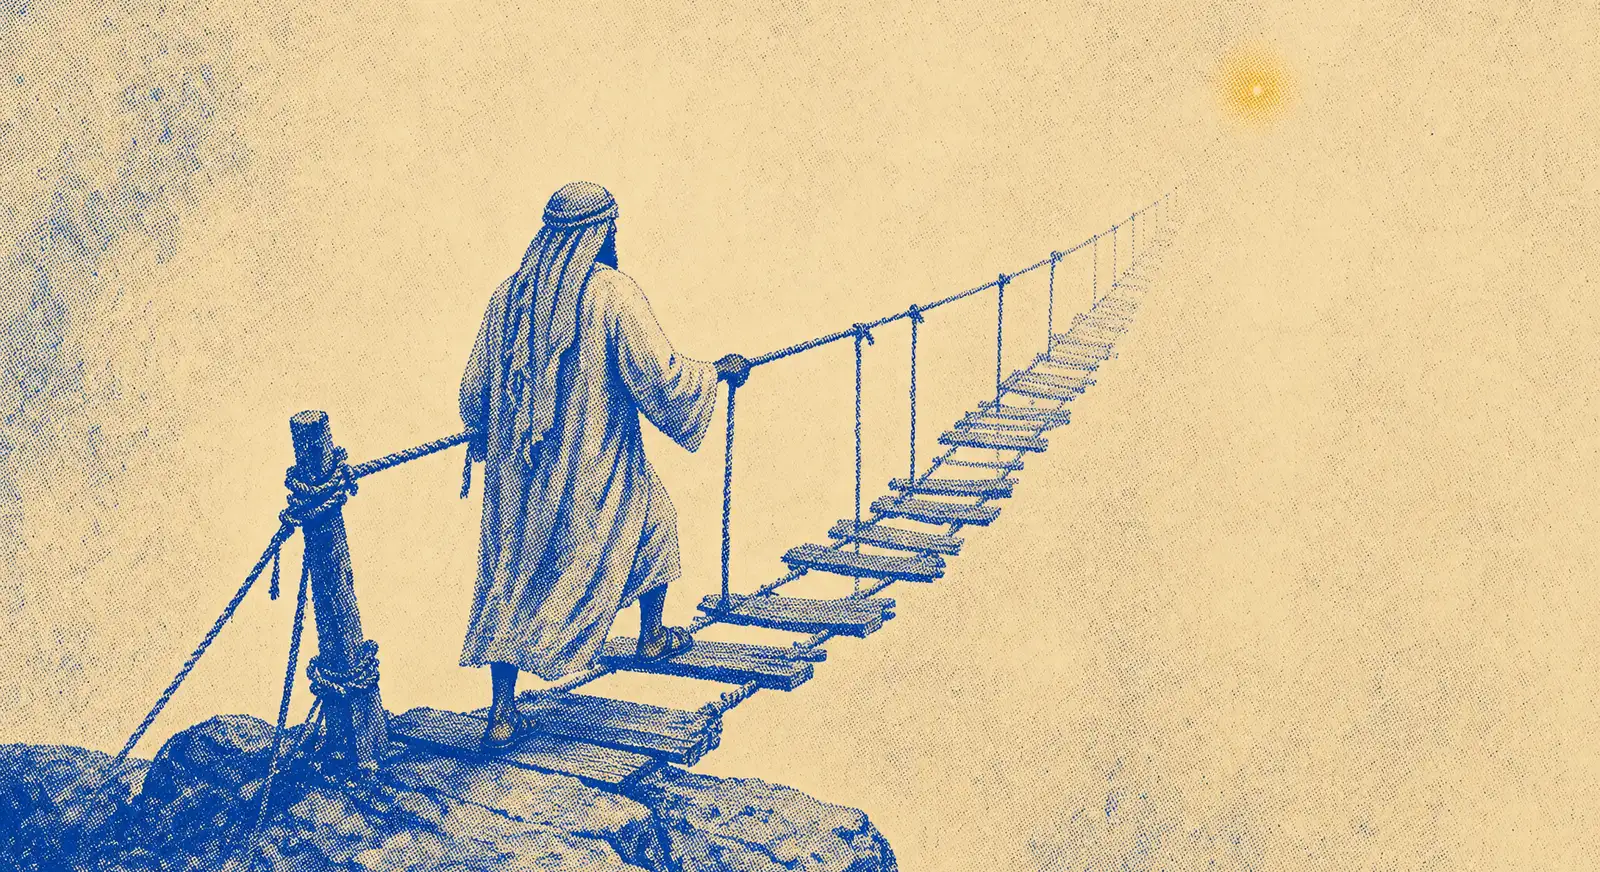
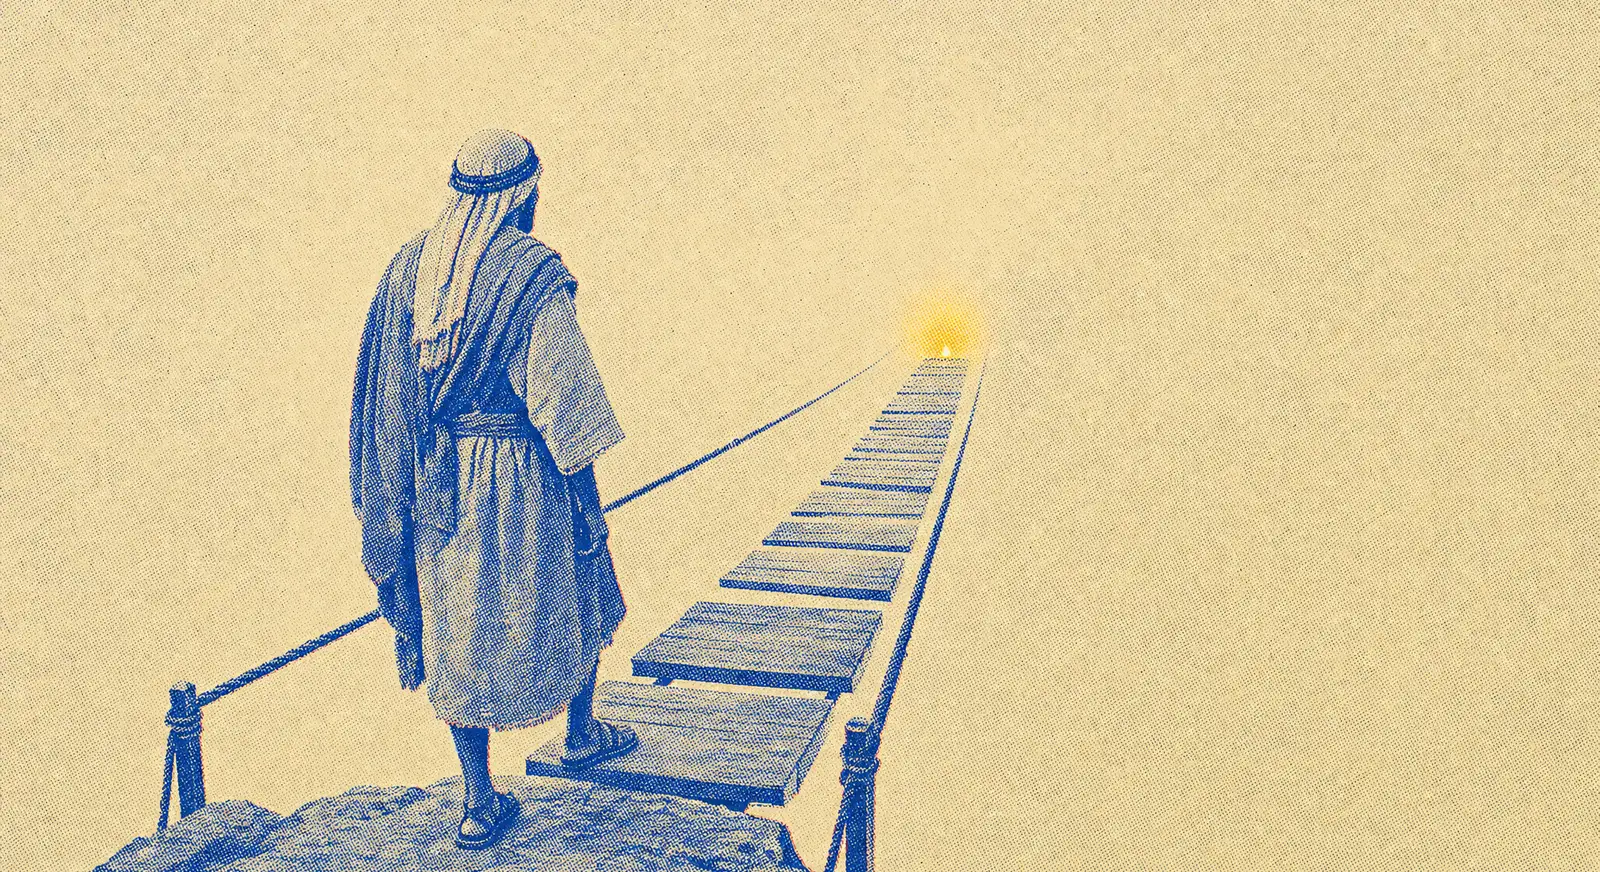
fix(imagery): three plate replacements + skill brought in line — SA-052 (F-096)
Founder approved the style ('almost perfect for now') with three rejections:
a malformed hand, a plate that did not suit its passage, and one that read as an
Escher drawing. All three regenerated with the specific constraint named in the
prompt rather than a general quality plea.

The gate cried wolf twice more: its border check was lightness-based and failed
both airy replacements for pale edges. An edge is now a defect only if pale AND
flat. Verified still-sensitive against a synthetic flat-border plate (BAD 6/6).
33/33 pass.

Every automated check in this pass has failed the same way — treating light as
absent. Anything measuring emptiness must measure texture at native resolution.

Skill rewritten to match what shipped: 3:2 params, two-master architecture with
measured safe zones, nine prompt blocks each annotated with the failure that
produced it, three set-level axes, and a gate covering hands, impossible geometry
and does-it-suit-the-passage.

diff --git a/src/components/ServiceWorkerRegistration.tsx b/src/components/ServiceWorkerRegistration.tsx
@@ -7,7 +7,7 @@ import { useEffect } from 'react'
 // reloading. v50 corresponds to the R37 deploy.
 // R38 (Phase 2.2 + 2.3): v51 — offline reading-route caching + web-push
 // handlers in /sw.js. Must match CACHE_NAME there.
-const SW_VERSION = 'v81'
+const SW_VERSION = 'v82'
 const SW_VERSION_KEY = 'euangelion-sw-version'
 
 export default function ServiceWorkerRegistration() {

diff --git a/public/sw.js b/public/sw.js
@@ -80,7 +80,7 @@
 // mismatched stored version it unregisters + clears caches before
 // re-registering, so users on the old build pick up the new one without a
 // manual hard-refresh.
-const CACHE_NAME = 'euangelion-v81'
+const CACHE_NAME = 'euangelion-v82'
 const OFFLINE_URL = '/offline'
 const STATIC_ASSET_RE = /\.(js|css|woff2?|ttf|otf)$/i
 

diff --git a/.claude/skills/devo-go/references/imagery-and-video.md b/.claude/skills/devo-go/references/imagery-and-video.md
@@ -4,43 +4,76 @@
 
 NO image generation until the founder has read and approved the full text (SA-029 gate). Video IDs are verified during research and shown as cards in the review artifact; imagery briefs are written per day but not executed.
 
-## Generator
+## Generator — as actually shipped 2026-08-16
 
-Higgsfield MCP, model `gpt_image_2` ("GPT Image 2", OpenAI) — the founder-directed generator (SA-029). Params: `resolution: "2k"`, `quality: "high"` (~7 credits/image), **`aspect_ratio: "1:1"` always**. Plan cap: 8 concurrent jobs — fire 8, poll `jobs_wait`, fire the rest as slots free. Download `results.rawUrl` PNGs.
+Higgsfield MCP, model `gpt_image_2`. Params: **`aspect_ratio: "3:2"`**,
+`resolution: "2k"`, `quality: "high"` → **2048×1360**, ~7 credits/image. Plan cap
+8 concurrent — fire 8, poll `jobs_wait`, fire the next as slots free. Download
+`results.rawUrl` PNGs.
 
-## Generate ONE master, derive every ratio (SA-052)
+Founder approved this batch: _"this style is almost perfect for now."_
 
-**Never generate per aspect ratio.** Generate one 2048×2048 master and crop every
-slot from it. A square master is the geometric mean of the extremes we need
-(9:16 → 1.91:1), so it loses the least to any single crop. Credits then scale
-with how many _pictures_ you want, not how many _places_ they appear — a 10-slot
-set costs 7 credits instead of 70.
+## Two masters, NOT one square (SA-052)
 
-| Key             | Slot                          | Pixels    |
-| --------------- | ----------------------------- | --------- |
-| `site-hero`     | Site headline hero            | 1408×768  |
-| `site-card`     | Series card                   | 1024×1024 |
-| `site-inline`   | Inline / day banner           | 1600×900  |
-| `site-portrait` | Portrait card 3:4             | 1050×1400 |
-| `og-card`       | OG / FB / LinkedIn / X link   | 1200×630  |
-| `ig-square`     | Instagram / LinkedIn square   | 1080×1080 |
-| `ig-portrait`   | Instagram portrait 4:5        | 1080×1350 |
-| `story`         | Stories / Reels / TikTok 9:16 | 1080×1920 |
-| `pinterest`     | Pinterest 2:3                 | 1000×1500 |
-| `yt-thumb`      | YouTube thumbnail 16:9        | 1280×720  |
+> **Retired:** the earlier "one 2048² square derives every ratio" rule. It read as
+> economical and was the direct cause of the set the founder rejected. The site
+> consumes eight ratios; their crop-safe intersection from a square is the central
+> **60%×27% — 16% of the frame** — so every composition was forced to the centre
+> with padding around it. The pipeline was manufacturing the "everything looks the
+> same, everything floats centred" fault. Do not reinstate it.
 
-Crop with `fit: 'cover', position: 'centre'` — **not** `sharp.strategy.attention`.
-Saliency targets the largest mass, which on these plates deletes the meaning: it
-kept a hand and cropped out the kneeling figure it was reaching for. Composition
-carries the crop instead, via the CROP clause below.
+| Master        | Size            | Safe zone             | Serves                                                                                                                                     |
+| ------------- | --------------- | --------------------- | ------------------------------------------------------------------------------------------------------------------------------------------ |
+| **Landscape** | 2400×1600 (3:2) | central 66%×75% ≈ 50% | series hero, card (4:3), Rack (4:3), headline (1408:768), artwork frames (3:2), Substack (16:9), landscape Mosaic, bento lead/default/wide |
+| **Portrait**  | 1800×2400 (3:4) | central 66%×90% ≈ 60% | Covers (3:4), Mosaic (4:5), tall Mosaic (3:5), rhythm block (1408:1700), bento tall                                                        |
 
-**Originals are never overwritten** (founder constraint). Derivatives go to new
-paths; the master stays untouched and archived.
+The portrait is **not a re-crop of the landscape** — same concept, restaged tall.
+
+**Out of scope:** the `3358/920` homepage banner is not series art (it is
+`header-v2.webp`, native ratio, never cropped from these). Series OG cards are
+separately rendered text-led cards. Social 1:1 / 4:5 / 9:16 get their own
+art-directed pass — do not derive them from series plates.
+
+Install: crop the landscape master to **1600×872 webp at q60** →
+`public/images/site/series/<slug>.webp`. `heroImage` in `src/data/series.ts`
+already points there, so install is a file replace with no code change. Crop with
+`fit: 'cover', position: 'centre'` — **never** `sharp.strategy.attention`, which
+targets the largest mass and once kept a hand while deleting the kneeling figure
+it reached for.
+
+**Never upscale.** `next.config.ts` sets `images.unoptimized`, so the raw file is
+served with no srcset; the headline slot is ~1267 CSS px on a 1920 desktop. A
+1024 source was being enlarged 1.24× and the halftone read as grain.
+
+**Originals are never overwritten** (founder constraint). The installer archives
+to `design-sources/` (gitignored; git history is the real revert path) and is
+write-once so a second run cannot clobber the archive with its own output.
 
 ## Per-devotional volume
 
 Minimum 3 generated images per devotional, up to 5 where the content needs them.
-Each is a master that derives the full table above.
+
+## The three axes that make a SET work
+
+A plate can be beautiful and the set still fail. The founder's rejection was
+_"all the images feel like they are depicting the same devotional."_ Assign every
+plate all three of these, and vary them across the set:
+
+**1. Composition archetype** — A scale break · B vast field/tiny figure · C single
+object close on toned ground · D cross-section · E repetition + one break ·
+F framed view (the frame _is_ an opening) · G overhead plan (straight down, not
+oblique) · H silhouette · I detail crop · J impossible juxtaposition.
+No two plates adjacent on the series page share one.
+
+**2. Coverage band** — AIRY 20–35% ink · MID 40–55% · DENSE 70–90%. Target roughly
+12/14/7 across 33. **State the band and the percentage in the subject line.**
+
+**3. One conceptual device** — the surreal move, named outright. This is what makes
+a plate legible as a thumbnail; a detailed landscape is not.
+
+Measured outcome: rejected set mean 78% ink / sd 9.7; shipped set mean 53% / sd
+26.8 / range 7–100%. The founder's four approved plates span 22–85%. **Spread is
+the metric, not any single plate.**
 
 ## The prompt — canonical copy lives in the repo
 
@@ -50,18 +83,28 @@ per-series subject lines. Assemble with `node scripts/imagery/build-prompts.mjs 
 Do not retype the preamble from memory — it was founder-approved verbatim on
 2026-08-15 after three rejected rounds.
 
-The prompt is five blocks, in order:
+The prompt is nine blocks, in this order. Each exists because of a specific
+observed failure — none is decorative:
 
-1. **FULL BLEED** — artwork to every edge, no paper margin, border, frame or vignette.
-2. **FULLY DEVELOPED FRAME** — a complete illustrated scene, never an isolated subject on blank paper. Sky carries cloud structure, ground carries texture, distance carries landscape. Quiet areas may be faint but are always printed.
-3. **Riso duotone style** — cobalt ultramarine on warm cream, Ben-Day dots carrying every tone, paper grain, faint crimson misregistration, no greys, no text.
-4. **PEOPLE** — region- and period-specific; skin as a printed value; faces by pose. See below.
-5. **SUBJECT** then **COMPOSITION FOR CROPPING**.
+1. **FULL BLEED** — artwork to every edge; no paper margin, border, frame, vignette. _(17 of 21 masters once came back with a cream border; `sharp.trim()` cannot remove it.)_
+2. **NO BARE PAPER** — every region printed; even the quietest carries a dot gradient or tone. _(Founder: "no stark nothing backgrounds.")_
+3. **PRINTED IS NOT POPULATED** — printing a region does NOT mean filling it with scenery; add nothing the subject does not require. _(The fix for block 2 over-corrected into demanding sky, ground texture and distant landscape everywhere, which produced 33 plates at 78% mean ink that all looked alike.)_
+4. **GROUNDED, NEVER FLOATING** — real contact, gravity, attachment; no floating emblems.
+5. **SCALE MUST BE LEGIBLE** — where something is meant to be enormous, include a readable scale reference. **A single small figure is the subject, not forbidden filler** — the ban on background figures forbids crowds only. _(Without this, a giant plumb bob rendered alone read as an ordinary object photographed close.)_
+6. **COVERAGE DISCIPLINE** — the stated ink percentage is a hard budget, not a mood: render the subject and STOP. _(Band accuracy went 0/4 → 4/8 the moment this was added.)_
+7. **Riso duotone style** — cobalt ultramarine on warm cream, Ben-Day dots carrying every tone, paper grain, faint crimson misregistration, no greys, no text and no invented glyphs. _(A coin came back with pseudo-lettering struck into it.)_
+8. **HANDS AND ANATOMY** — five fingers, correct length order, real joints, thumb low on the inner palm; prefer hands doing physical work; obscure them when they are not the subject.
+9. **NOT AI ARTWORK** — names the tells to avoid (airbrushed haze, glow bloom, uniform obsessive detail, bilateral symmetry, filigree, plastic sheen, even lighting) and the alternative (uneven ink, deliberately flat passages, asymmetric hand-cut shapes, registration slip, one decisive light direction).
+
+Then **PEOPLE**, **SUBJECT**, and the orientation-matched **CROP_CLAUSE**.
 
 > **Deleted 2026-08-15:** the old style block said _"Generous negative space, high
-> horizon line, small figure scale, single-subject composition."_ That line is what
-> produced subjects floating in blank cream. Founder: _"no stark nothing
-> backgrounds."_ Block 2 replaces it. Do not reinstate it.
+> horizon line, small figure scale, single-subject composition."_ That produced
+> subjects floating in blank cream.
+> **Also deleted 2026-08-16:** its replacement, "FULLY DEVELOPED FRAME", which
+> demanded sky, ground and landscape in every frame and caused the opposite
+> failure. Blocks 2 and 3 above are the corrected pair. Quiet, blank and filled
+> are three different things; only blank was ever forbidden.
 
 ### PEOPLE — the clause that matters most
 
@@ -96,18 +139,31 @@ homepage**. This is part of publishing, not a follow-up task:
 
 ## Accuracy Gate (SA-032, extended by SA-052 — MANDATORY before placement)
 
-Every render is checked in this order. Steps 1–2 are measured; **3–5 require
-opening the image**.
+Run `node scripts/imagery/verify-masters.mjs <dir>` for steps 1–2. Steps 3–6
+require opening the image; the script deliberately refuses to score them.
 
-1. **Border** — sample 3 pixels down each edge of the 1408×768 centre crop; all must be ink. `sharp.trim()` cannot fix a border — the gradient is too soft. Regenerate.
-2. **Blank paper** — bare-paper coverage across the whole frame ≈ 0%. Anything higher means block 2 was ignored.
-3. **Figures** — period dress, dense-dot brown skin, no blacked-out faces, no modern clothing. A plate can pass 1 and 2 and still fail here.
-4. **Fact check** — does the image depict what the caption claims? Botany (wheat BOWS heavy and golden at maturity; darnel stands stiff with thin dark spikelets; identical ONLY pre-heading), history, geography, textual detail (four soils are four DISTINCT grounds; a mustard seed is tiny and its tree large). If the teaching hinges on a difference, the difference must be visible and correct.
-5. **Crop check** — derive the 9:16 and 1.91:1 crops and confirm both still carry the subject and the golden light. A master that only works square is a failed master.
+1. **Border** — 3 samples down each edge of the 1408×768 crop must be ink. `sharp.trim()` cannot fix a border; the gradient is too soft. Regenerate.
+2. **Blank paper** — measured as **local variance at native resolution**, not lightness. Printed quiet carries dot texture; blank paper is flat. **Both naive versions of this check produced false negatives** — a lightness threshold failed every correct cream-dominant AIRY plate, and sampling after a downscale averaged the halftone away so printed areas read as flat. Nine good plates were nearly regenerated for nothing.
+3. **Hands** — count the fingers on every visible hand. Five each: four plus a thumb. Middle longest, little shortest, thumb low on the inner palm. No fused, splayed, crossed or boneless digits. A malformed hand is the single most common founder rejection and is invisible to every automated check.
+4. **Impossible geometry** — no structure that reads as Escher: no recursive lattices, no ambiguous up/down, no spans that loop or return on themselves, no tessellated modules. Founder: _"looks like an escher drawing and thus looks like ai made it and got confused."_ When a structure is uncertain, make it plainer — an obviously buildable object is correct, anything clever is wrong.
+5. **Does it suit the passage** — a technically fine plate can simply be the wrong idea for the day. Read the devotional and ask whether a reader would connect them. Founder rejected one plate on exactly this and nothing else.
+6. **Fact check** — botany (wheat BOWS heavy and golden at maturity; darnel stands stiff with thin dark spikelets; identical ONLY pre-heading), history, geography, textual detail (four soils are four DISTINCT grounds). If the teaching hinges on a difference, the difference must be visible.
+7. **Crop check** — derive the worst-case crops and confirm the device survives: 1:1 and 1408:768 for landscape, 1:2 and 3:5 for portrait. A master that only works at its native ratio is a failed master.
 
-A beautiful wrong image fails. Regenerate with the fact named explicitly in the
-prompt. Founder precedent: the v1 wheat/darnel plate showed two identical formed
-heads — style-perfect, botanically wrong, caught by the founder IN PRODUCTION.
+A beautiful wrong image fails. Founder precedent: the v1 wheat/darnel plate was
+style-perfect, botanically wrong, and caught by the founder IN PRODUCTION.
+
+## Set-level check — the one that actually catches sameness
+
+Per-image verification passed 33 near-identical plates 33 times. The defect only
+exists **across** the set. Before any full-set sign-off, report:
+
+- ink coverage per plate against its assigned band, and the count out of band
+- distribution against the 12/14/7 target
+- **standard deviation** — under ~15 means the set has collapsed toward one register
+- any two series-page neighbours sharing archetype or band
+- a contact-sheet panel at **true series-card size**: if the plates cannot be told
+  apart in that grid, the round has failed regardless of how they look large
 
 ## Video embedding
 

diff --git a/docs/feature-prds/F-096.md b/docs/feature-prds/F-096.md
@@ -140,6 +140,29 @@ calibrated (1/4 vs 0/4 in band) but smaller at 1536x1024. Founder chose
 Higgsfield after seeing the comparison. Codex's set is preserved at
 `imagery-staging/series-v2/landscape/` for inline devotional use.
 
+## Round 3 fixes (2026-08-16)
+
+Founder approved the style — _"this style is almost perfect for now"_ — and
+rejected three plates:
+
+| Plate                    | Rejection                                                                        | Fix                                                                                                                                                                                                                 |
+| ------------------------ | -------------------------------------------------------------------------------- | ------------------------------------------------------------------------------------------------------------------------------------------------------------------------------------------------------------------- |
+| `surrender-to-gods-will` | _"the right hand looks like ai drew it - its malformed"_                         | Explicit anatomy spec: both hands at one viewing angle, five fingers counted, correct length order, thumb low on the inner palm, no crossing or fusing, **simplify the pose rather than attempt an expressive one** |
+| `too-busy-for-god`       | _"the image doesnt quite suit the passage"_                                      | New concept — figure bent under an impossibly tall lashed load, hurrying past a lit lamp they never notice                                                                                                          |
+| `the-nature-of-belief`   | _"looks like an escher drawing and thus looks like ai made it and got confused"_ | New concept, geometry constrained hard: one straight plank walkway, one-point perspective, two side ropes only, far end simply not drawn. "If in doubt, make it plainer"                                            |
+
+### The gate's second false-negative class
+
+Its border check was **lightness-based**, so both airy replacements failed it for
+having pale edges — the same error class that nearly cost nine good plates. An
+edge now counts as a border defect only if it is pale **and flat**: a real print
+border is unprinted, an airy composition is not. Proven still-sensitive against a
+synthetic flat-border plate, correctly rejected `BAD(6/6)`. 33/33 pass.
+
+**Standing lesson:** every automated check here has failed in the same direction —
+treating _light_ as _absent_. Anything measuring "is this region empty" must
+measure texture, at native resolution, never brightness.
+
 ## Methodology References
 
 - M00

diff --git a/CHANGELOG.md b/CHANGELOG.md
@@ -26,6 +26,31 @@ set gate: landscape mean 37.6%, SD 23.7, range 5.0–89.6% with 23/33 outside th
 assigned bands; portrait mean 37.2%, SD 18.8, range 4.9–84.1% with 18/33 outside.
 No upscaling was performed.
 
+## IMAGERY — three plate fixes + skill brought in line (2026-08-16)
+
+**SA-052 · F-096** — founder: _"this style is almost perfect for now"_, with three
+rejections:
+
+- **surrender-to-gods-will** — _"the right hand looks like ai drew it - its malformed."_ Regenerated with an explicit anatomy spec: both hands at the same viewing angle, five fingers counted, correct length order (middle longest, little shortest), thumb low on the inner palm, no crossing or fusing, and an instruction to simplify the pose rather than attempt an expressive one.
+- **too-busy-for-god** — _"the image doesnt quite suit the passage."_ New concept: a figure bent under an impossibly tall lashed load of jars and bundles, hurrying straight past a lit oil lamp they never notice.
+- **the-nature-of-belief** — _"looks like an escher drawing and thus looks like ai made it and got confused."_ New concept with geometry constrained hard: ONE straight plank walkway, one-point perspective, two side ropes and nothing else, far end simply not drawn. "If in doubt, make it plainer."
+
+**The gate cried wolf twice more.** Its border check was lightness-based, so it
+failed both airy replacements for having pale edges — the same class of false
+negative that nearly caused nine good plates to be regenerated earlier. An edge
+now counts as a border defect only if it is pale **and flat**; a real print border
+is unprinted, an airy composition is not. Verified against a synthetic flat-border
+plate, which is still correctly rejected `BAD(6/6)`.
+
+**Skill updated to match what shipped** — `imagery-and-video.md` carried the
+retired one-square-master rule and the retired FULLY DEVELOPED FRAME block. It now
+documents the 3:2 generation params, the two-master architecture with measured
+safe zones, the nine prompt blocks each annotated with the failure that produced
+it, the three set-level axes, and a seven-step gate that adds hands, impossible
+geometry and "does it suit the passage" — the three things measurement cannot catch.
+
+---
+
 ## SERIES IMAGERY — the editorial pass (2026-08-16)
 
 **SA-052 · F-096** — all 33 non-approved plates regenerated. The four approved
